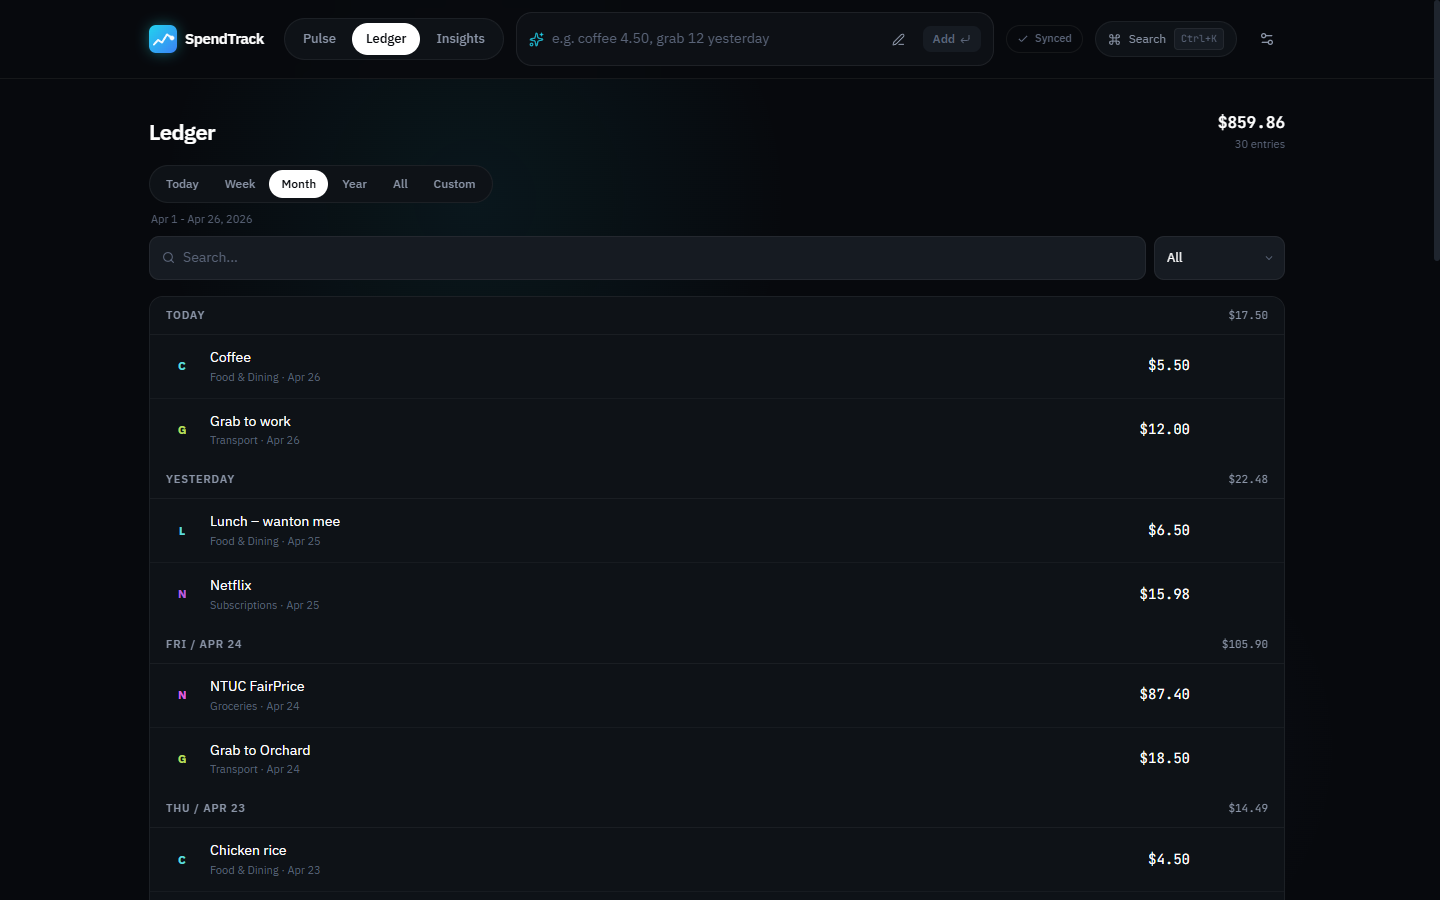
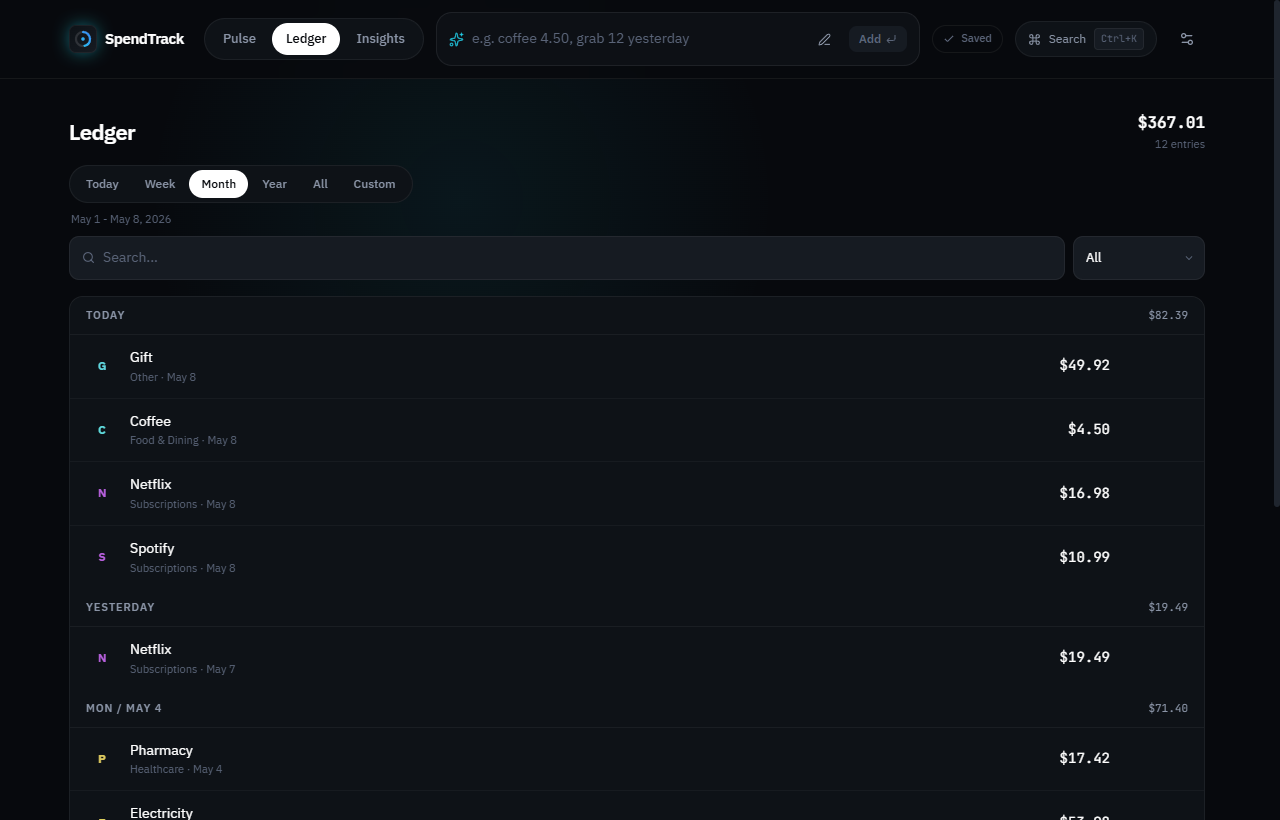
chore: final polish — screenshots, docs, supabase indexes, repo hygiene (#11)
Final excellence pass after the standout commit. Multi-agent audit found
4 high-signal items; all fixed.

REPO PRESENTATION
- Replaced ALL screenshots in docs/screenshots/ with fresh captures from
  the production build with realistic 60-day seed data — the previous PNGs
  were from April 26 and predated brand identity / UI polish / today-cell
  ring / FAB shadow / tabular nums.
- New `docs/screenshots/pulse-full.png` for the README hero banner shows
  the entire Pulse experience top-to-bottom.
- README gallery upgraded from a markdown table to an HTML <table> for
  premium presentation (caption + screenshot per column).
- Removed stray `spendtrack-backup-2026-05-02.json` from repo root.

DOCUMENTATION
- USER_GUIDE.md fully refreshed — sync setup walkthrough, merge semantics,
  retry/backoff behaviour, quota toast handling. Removed stale "no
  multi-device sync yet" claim.
- CHANGELOG.md: new 0.5.0 entry covering the brand refresh, P0 stability,
  rapid-nav fix, sync hardening, perf wins, and bundle reduction.

SUPABASE
- New migration `supabase/migrations/002_sync_indexes.sql`:
  - `created_at` column for telemetry
  - Index on `updated_at DESC` for retention sweeps
  - `prune_stale_sync_buckets(INTERVAL)` function for housekeeping
- Idempotent — safe to re-run on existing deployments.

CODE HYGIENE
- Both `eslint-disable react-hooks/exhaustive-deps` lines now have
  inline comments explaining intent (LedgerScreen search debounce,
  AddExpenseSheet open-only reset).
[…]

diff --git a/src/features/ledger/LedgerScreen.tsx b/src/features/ledger/LedgerScreen.tsx
@@ -149,7 +149,10 @@ export function LedgerScreen() {
     }
   };
 
-  // Sync search param
+  // Sync search param. Intentionally only depends on `search` — adding `params`
+  // / `setParams` to the deps would re-arm the debounce on every URL change
+  // and we'd never settle. The latest `params` is captured fresh inside the
+  // setTimeout closure when it fires.
   useEffect(() => {
     const t = setTimeout(() => {
       const n = new URLSearchParams(params);

diff --git a/src/features/entry/AddExpenseSheet.tsx b/src/features/entry/AddExpenseSheet.tsx
@@ -47,6 +47,8 @@ export function AddExpenseSheet({ open, onClose, prefill }: Props) {
       });
       setErrors({});
     }
+    // Intentionally only resets when the sheet opens. Re-running on every
+    // `prefill`/`today` change would clobber whatever the user was typing.
     // eslint-disable-next-line react-hooks/exhaustive-deps
   }, [open]);
 

diff --git a/docs/USER_GUIDE.md b/docs/USER_GUIDE.md
@@ -29,6 +29,27 @@ The parser detects:
 4. Use Insights to spot recurring charges and spending changes.
 5. Export a JSON backup regularly if the data matters to you.
 
+## Cross-device sync
+
+Sync is **opt-in** and runs against your own Supabase project. There are no accounts and no passwords — a UUID sync code acts as the shared secret between your devices.
+
+To set it up once:
+
+1. Create a free project at [supabase.com](https://supabase.com).
+2. In the Supabase SQL Editor, run `supabase/migrations/001_sync.sql` (and optionally `002_sync_indexes.sql` for retention helpers).
+3. Copy your project URL and anon public key into `.env.local` as `VITE_SUPABASE_URL` and `VITE_SUPABASE_ANON_KEY`.
+4. Open Settings → **Sync** in the app and tap **Generate sync code**. Paste the same code into Settings → Sync on every other device.
+
+How it works:
+
+- localStorage stays the source of truth — the cloud is a stateless relay.
+- Each expense merges by **last-write-wins** using its `updatedAt` (or `createdAt`) timestamp.
+- A tombstone set propagates deletions across devices, so a deleted expense never resurrects on another device.
+- Local edits push 3 seconds after your last change. Remote edits arrive instantly via Supabase Realtime.
+- If a push fails, retries back off exponentially (1.5 s × 2ⁿ, capped at 2 minutes) until you're online again.
+
+If you'd rather not run a Supabase project, JSON export/import works the same way it always did.
+
 ## Backups
 
 SpendTrack stores data in browser `localStorage`. This keeps the app private and fast, but browser storage is still local storage.
@@ -37,30 +58,31 @@ Export a JSON backup before:
 
 - clearing browser data
 - switching browsers
-- changing devices
+- changing devices (if you don't have sync configured)
 - reinstalling the app
 - testing with real spending records
 
 Use CSV export when you want to analyse records in Excel, Google Sheets, or another finance tool.
 
+If browser storage is full, SpendTrack will surface a toast prompting you to export and clear data before continuing — it never silently fails to persist.
+
 ## Privacy Model
 
-SpendTrack has no backend and no account system. Your spending data stays in your browser unless you export it yourself.
+SpendTrack has no built-in backend and no account system. Your spending data stays in your browser by default. If you opt into cross-device sync, the only place data leaves your device is your own Supabase project — which you own and control.
 
-This also means:
+That means:
 
-- there is no cloud recovery
-- there is no multi-device sync yet
-- data safety depends on local backups
+- no third-party analytics, no telemetry
+- no cloud recovery unless you set up sync (or export your own backups)
+- the UUID sync code is your only credential — treat it like a password
 
 ## Current Limits
 
 SpendTrack is intentionally focused. It does not currently support:
 
 - bank imports
-- multi-device sync
 - shared budgets
 - investment tracking
-- account-based recovery
+- account-based recovery (use sync or JSON exports instead)
 
-Those are valid future directions, but the current product is optimized for fast personal tracking.
+Those are valid future directions, but the current product is optimised for fast personal tracking.

diff --git a/CHANGELOG.md b/CHANGELOG.md
@@ -1,8 +1,29 @@
 # Changelog
 
-## Unreleased
+## 0.5.0 — 2026-05-08
 
-_Roadmap empty — open an issue if there's something to add._
+### Added
+- **Brand identity refresh** — new logo and favicon derived from the app's signature **PaceRing** data viz. Identical mark used across favicon, in-app `SpendLogo`, apple-touch-icon, and PWA install icon.
+- **Storage quota guard** — every `localStorage` write goes through `safeSet()` which catches `QuotaExceededError`, dispatches a custom event, and surfaces a user-facing toast. Previously silent data loss.
+- **JSON import hardening** — 8 MB file cap, deep schema validation (id/amount/date/category required), 50K-entry safety limit, specific error messages.
+- **Supabase retention helpers** — `supabase/migrations/002_sync_indexes.sql` adds `created_at`, an index on `updated_at`, and a `prune_stale_sync_buckets()` function for housekeeping.
+- **README refresh** — fresh screenshots, full architecture block, sync deep dive, performance + stability tables, hero banner.
+
+### Fixed
+- **Rapid-nav blank-render bug** — Pulse and Insights screens could render blank when the user tapped between tabs faster than the framer-motion exit animation. Eliminated by removing the route-level `AnimatePresence` wrapper and migrating to a CSS-keyframe `.route-fade-in`. **Verified across 290 stress-test iterations on dev / production / mobile / 4× CPU-throttled builds — 0 blanks.**
+- `addExpense` now rejects non-finite or non-positive amounts at the store boundary.
+- `renameCategory` is collision-safe — merges into the existing target category instead of duplicating.
+- Undo stack drops expired entries on every `consumeUndo`.
+
+### Changed
+- **Sync hardening** — single in-flight `Promise` lock kills push-during-pull races. Realtime auto-reconnects on `CLOSED`/`CHANNEL_ERROR`/`TIMED_OUT`. Push retries with exponential backoff (1.5 s × 2ⁿ, capped at 2 min). Pre-flight payload size guard rejects writes >1 MB. Tombstone array capped at 1000.
+- **Performance** — Supabase JS SDK is now lazy-loaded via dynamic `import()` (~25 kB gzip moved off the critical path). `SettingsDrawer` is lazy via `React.lazy()`. Hydration deferred from module-load to a `useEffect` so first paint is unblocked.
+- **Bundle** — main `index.js` shrank from 142.9 KB → **83.7 KB gzip** (−41 %).
+- **`tabular-nums` on `body`** — every digit aligns vertically across the entire app.
+
+### Removed
+- Dead `formatCurrency` and duplicate `generateColorFromString` helpers (canonical equivalents already lived in `lib/format.ts` and `lib/analytics.ts`).
+- Stray `spendtrack-backup-2026-05-02.json` from repo root.
 
 ## 0.3.0 — 2026-05-02
 

diff --git a/README.md b/README.md
@@ -34,7 +34,7 @@
 <br/>
 
 <p align="center">
-  <img src="docs/screenshots/pulse.png" alt="SpendTrack — Pulse dashboard" width="100%" />
+  <img src="docs/screenshots/pulse-full.png" alt="SpendTrack — Pulse dashboard with monthly pace, top categories, activity heatmap, and budget vs actual" width="100%" />
 </p>
 
 ---
@@ -79,10 +79,18 @@ Most personal-finance apps are built around syncing, subscriptions, and dashboar
 
 ## Screenshots
 
-| Pulse | Ledger | Insights |
-|:---:|:---:|:---:|
-| ![Pulse](docs/screenshots/pulse.png) | ![Ledger](docs/screenshots/ledger.png) | ![Insights](docs/screenshots/insights.png) |
-| Live pace ring, sparkline, heatmap | Searchable history with URL-driven filters | Recurring detection, forecasts, week trends |
+<table>
+<tr>
+  <td width="33%" align="center"><b>Pulse</b><br/><sub>Live pace ring · sparkline · heatmap · budgets</sub></td>
+  <td width="33%" align="center"><b>Ledger</b><br/><sub>Searchable history · URL-driven filters · undo</sub></td>
+  <td width="33%" align="center"><b>Insights</b><br/><sub>Recurring detection · 14-day forecast · trends</sub></td>
+</tr>
+<tr>
+  <td><img src="docs/screenshots/pulse.png" alt="Pulse"/></td>
+  <td><img src="docs/screenshots/ledger.png" alt="Ledger"/></td>
+  <td><img src="docs/screenshots/insights.png" alt="Insights"/></td>
+</tr>
+</table>
 
 ---
 